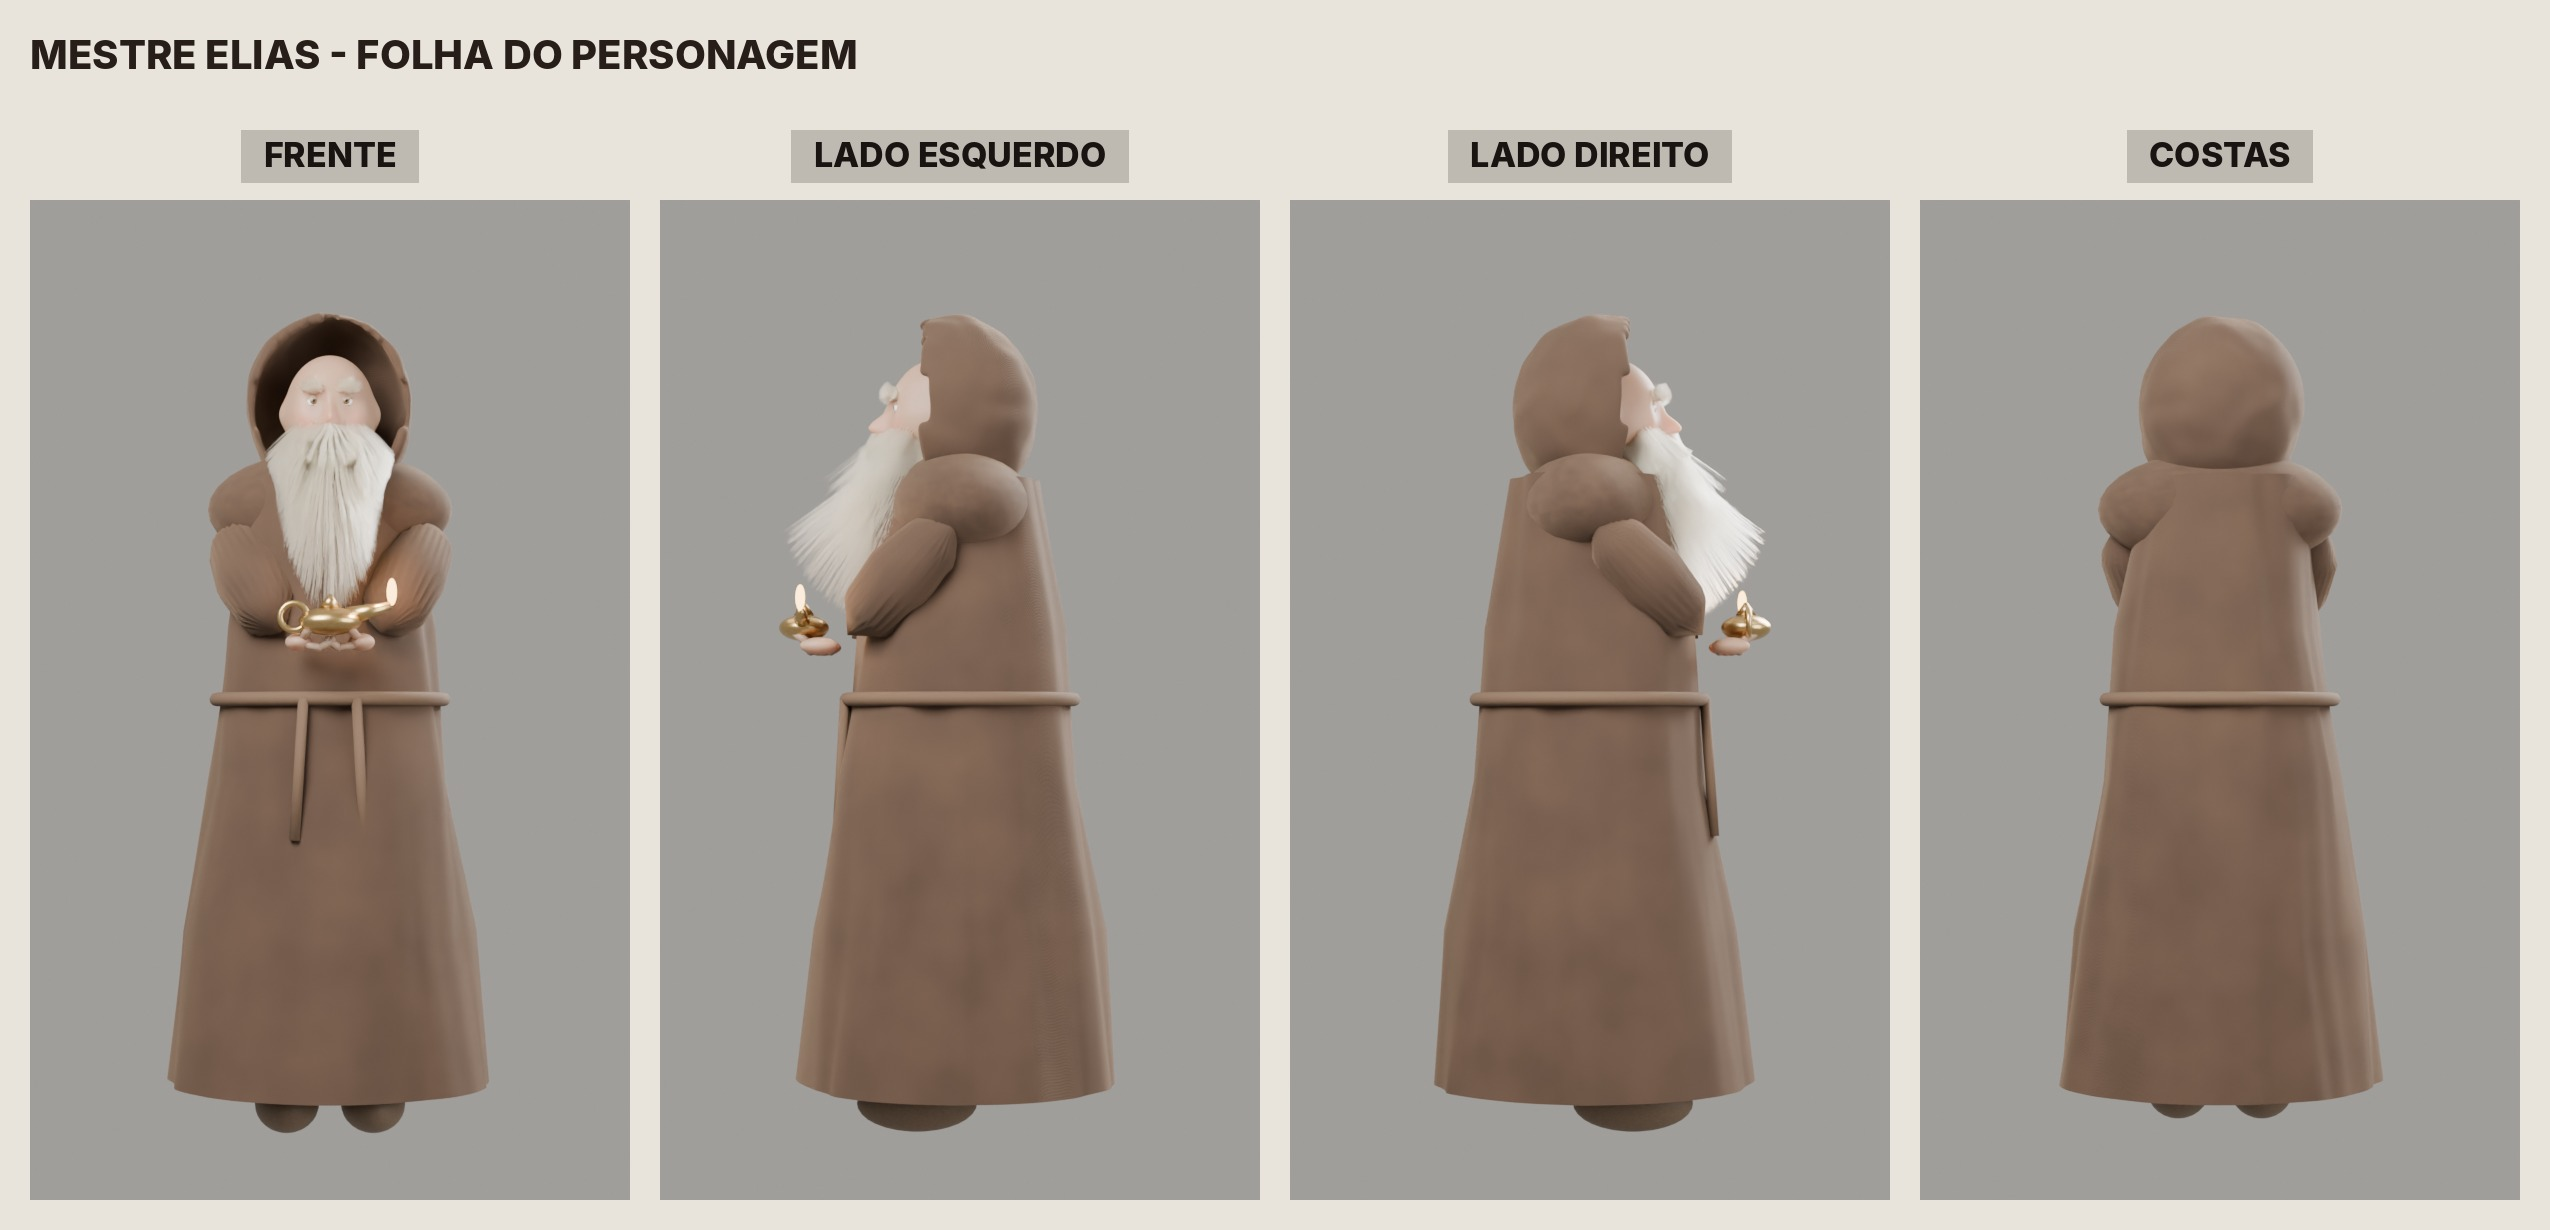
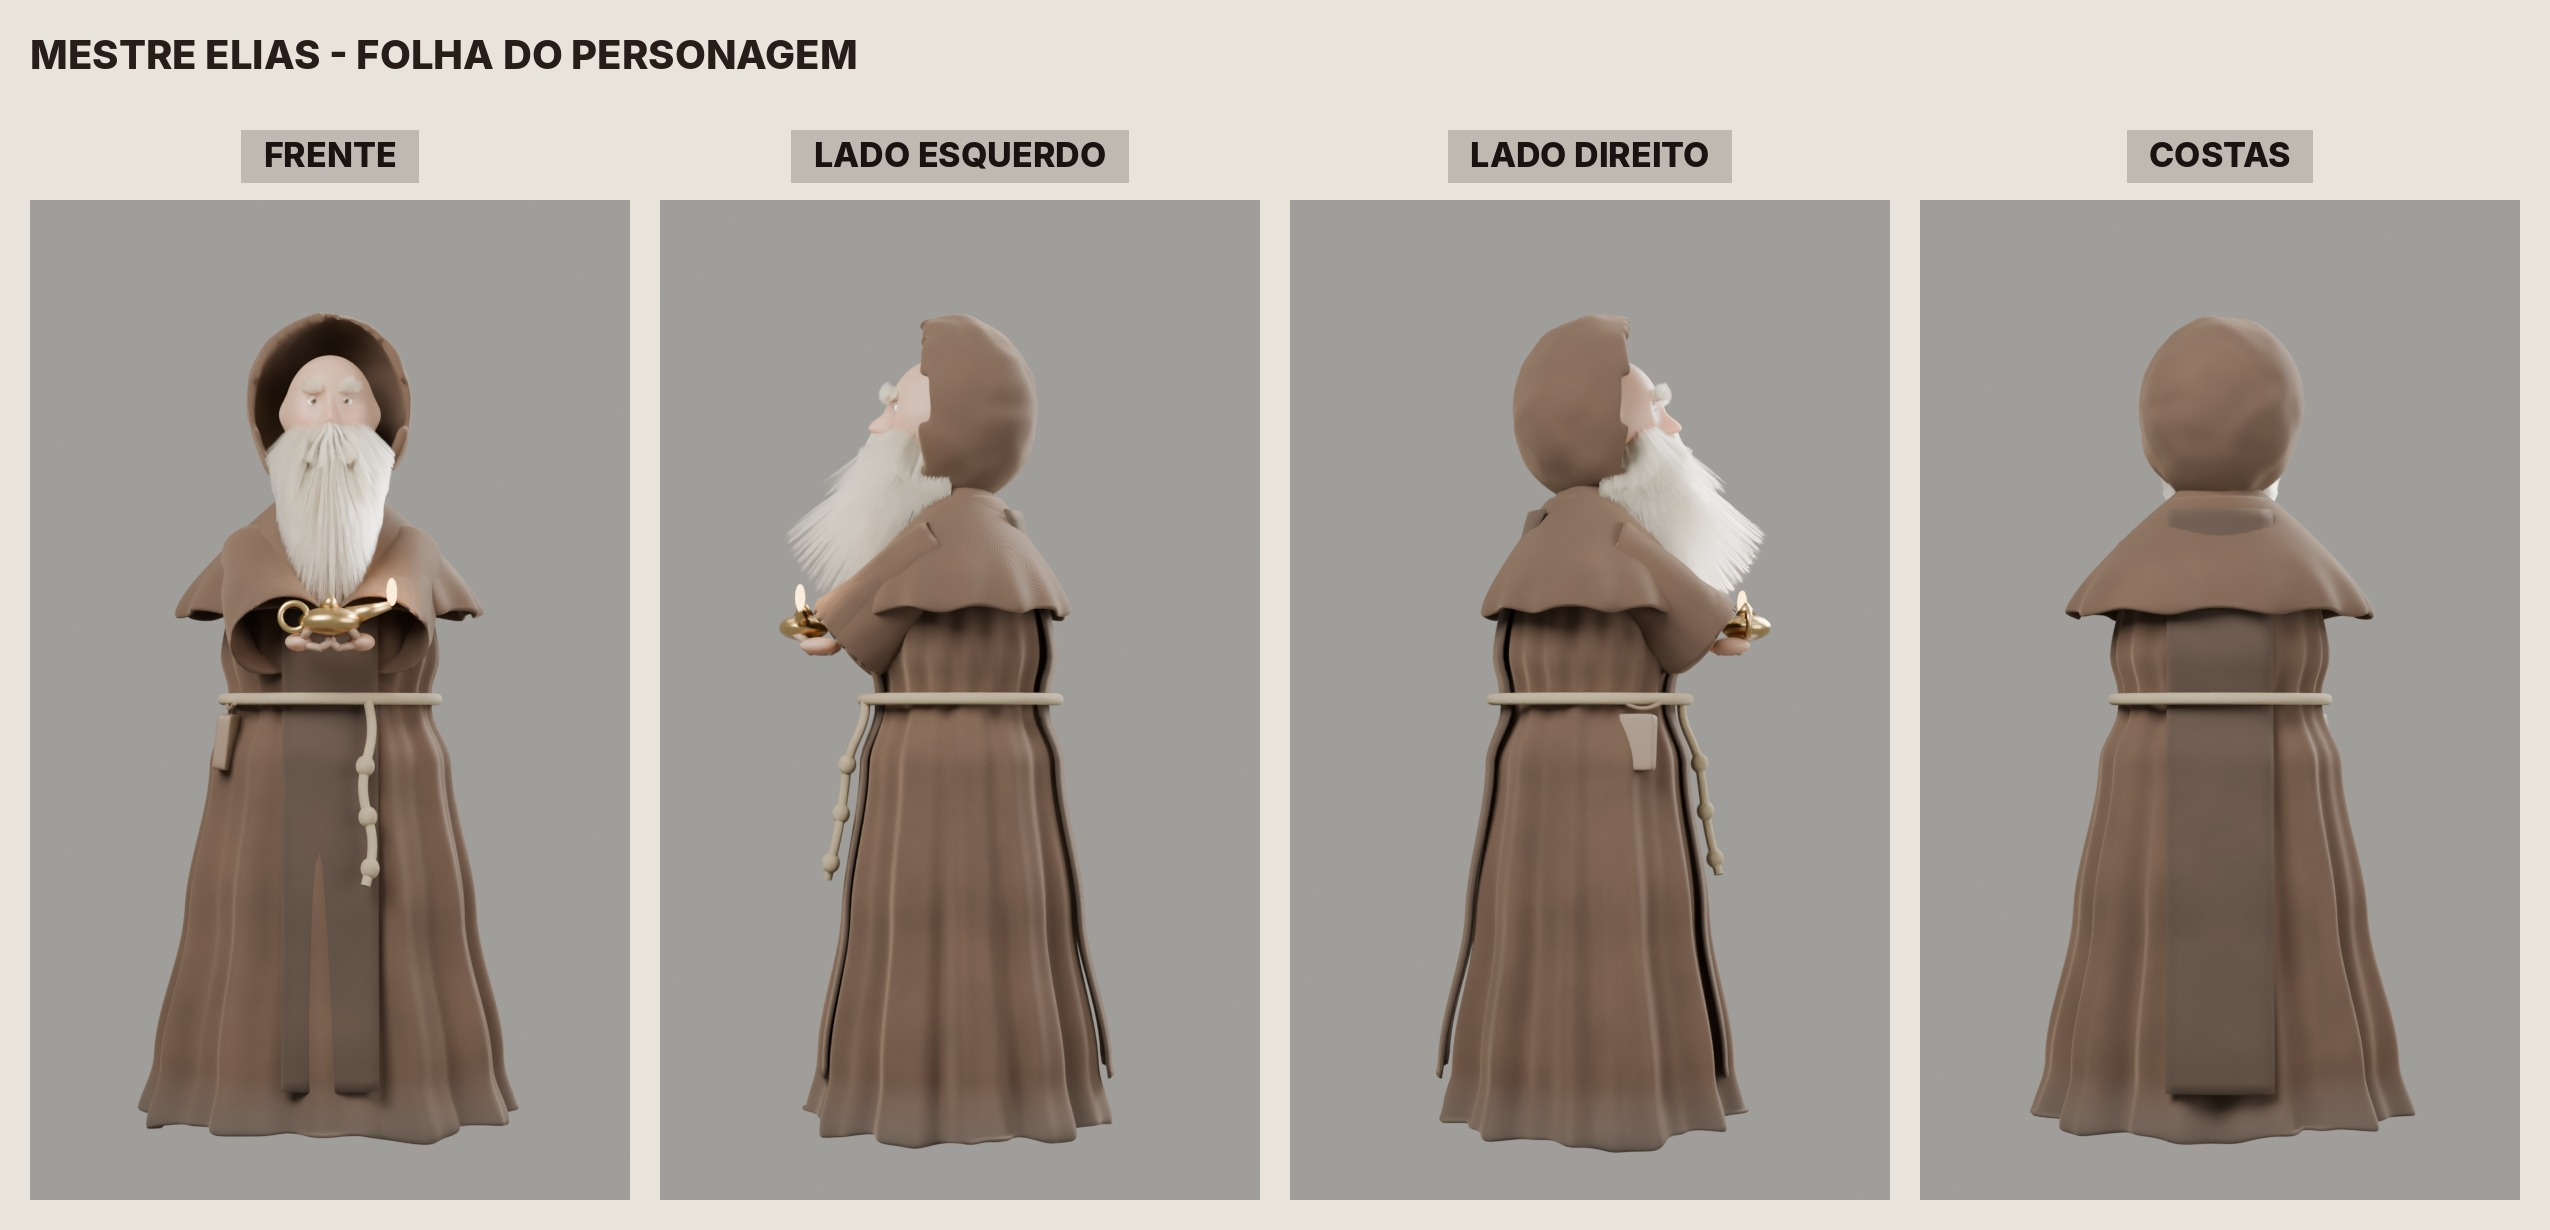
Elias V2: roupas novas (habito com dobras, escapulario, murca, mangas de sino, cordao com nos, bolsa)
Claude-Session: https://claude.ai/code/session_0146Xd1ZsDWpGpSHV77qDDph

diff --git a/animacao3d/personagem.py b/animacao3d/personagem.py
@@ -329,11 +329,11 @@ def cabeca_realista(colecao, m):
     return pecas
 
 
-def _la_material():
-    m = bpy.data.materials.get("la_tecida")
+def _la_material(nome="la_tecida", sujeira=False, cor=((0.04, 0.02, 0.011, 1), (0.085, 0.045, 0.025, 1))):
+    m = bpy.data.materials.get(nome)
     if m:
         return m
-    m = bpy.data.materials.new("la_tecida")
+    m = bpy.data.materials.new(nome)
     m.use_nodes = True
     nt = m.node_tree
     p = nt.nodes["Principled BSDF"]
@@ -345,10 +345,27 @@ def _la_material():
     var.inputs["Scale"].default_value = 6
     nt.links.new(tc.outputs["Object"], var.inputs["Vector"])
     rampa = nt.nodes.new("ShaderNodeValToRGB")
-    rampa.color_ramp.elements[0].color = (0.04, 0.02, 0.011, 1)
-    rampa.color_ramp.elements[1].color = (0.085, 0.045, 0.025, 1)
+    rampa.color_ramp.elements[0].color = cor[0]
+    rampa.color_ramp.elements[1].color = cor[1]
     nt.links.new(var.outputs["Fac"], rampa.inputs["Fac"])
-    nt.links.new(rampa.outputs["Color"], p.inputs["Base Color"])
+    if sujeira:
+        # Barra gasta: mais escura e empoeirada perto do chao.
+        sep = nt.nodes.new("ShaderNodeSeparateXYZ")
+        nt.links.new(tc.outputs["Object"], sep.inputs[0])
+        faixa = nt.nodes.new("ShaderNodeMapRange")
+        faixa.inputs["From Min"].default_value = 0.0
+        faixa.inputs["From Max"].default_value = 0.16
+        faixa.inputs["To Min"].default_value = 1.0
+        faixa.inputs["To Max"].default_value = 0.0
+        nt.links.new(sep.outputs["Z"], faixa.inputs["Value"])
+        mist = nt.nodes.new("ShaderNodeMix")
+        mist.data_type = "RGBA"
+        mist.inputs["B"].default_value = (0.06, 0.045, 0.035, 1)
+        nt.links.new(faixa.outputs["Result"], mist.inputs["Factor"])
+        nt.links.new(rampa.outputs["Color"], mist.inputs["A"])
+        nt.links.new(mist.outputs["Result"], p.inputs["Base Color"])
+    else:
+        nt.links.new(rampa.outputs["Color"], p.inputs["Base Color"])
     trama = nt.nodes.new("ShaderNodeTexWave")
     trama.wave_type = "BANDS"
     trama.bands_direction = "DIAGONAL"
@@ -393,32 +410,228 @@ def maos_realistas(colecao, s):
     return pecas
 
 
+# ---------------------------------------------------------------------------
+# Roupas V2: habito com forma e dobras de verdade, escapulario, murca, mangas de sino,
+# cordao franciscano com nos e bolsa de couro.
+# ---------------------------------------------------------------------------
+PROF = 0.8  # o corpo e mais estreito de frente para tras (elipse)
+
+
+def _raio_habito(z):
+    """Silhueta do habito: barra larga, cintura franzida no cordao, peito e ombros."""
+    pontos = [(0.0, 0.43), (0.15, 0.39), (0.5, 0.33), (0.85, 0.28), (0.98, 0.235), (1.02, 0.235), (1.1, 0.255),
+              (1.28, 0.23), (1.42, 0.17), (1.5, 0.11)]
+    for (z0, r0), (z1, r1) in zip(pontos, pontos[1:]):
+        if z <= z1:
+            t = (z - z0) / (z1 - z0)
+            t = t * t * (3 - 2 * t)
+            return r0 + (r1 - r0) * t
+    return pontos[-1][1]
+
+
+def _dobra_habito(a, z):
+    """Deslocamento radial das dobras: fundas e largas embaixo, miudas e franzidas acima do cordao."""
+    if z < 1.0:
+        k = 0.012 + 0.03 * _suave(0.95, 0.05, z)
+        return k * (0.65 * math.sin(11 * a + 0.7 * math.sin(2.3 * z)) + 0.35 * math.sin(23 * a + 1.3 + z))
+    k = 0.009 * _suave(1.35, 1.03, z)
+    return k * math.sin(19 * a + 0.4)
+
+
+def _torno(nome, zs, raio, dobra, mat, colecao, seg=128, prof=PROF, barra=None):
+    """Superficie de revolucao com dobras: grade (angulo x altura), aberta em cima e embaixo."""
+    bm = bmesh.new()
+    grade = []
+    for j, z in enumerate(zs):
+        anel = []
+        for i in range(seg):
+            a = 2 * math.pi * i / seg
+            r = raio(z) + dobra(a, z)
+            zz = z + (barra(a) if barra and j == 0 else 0)
+            anel.append(bm.verts.new((r * math.cos(a), r * math.sin(a) * prof, zz)))
+        grade.append(anel)
+    for j in range(len(zs) - 1):
+        for i in range(seg):
+            bm.faces.new((grade[j][i], grade[j][(i + 1) % seg], grade[j + 1][(i + 1) % seg], grade[j + 1][i]))
+    me = bpy.data.meshes.new(nome)
+    bm.to_mesh(me)
+    bm.free()
+    for p in me.polygons:
+        p.use_smooth = True
+    me.materials.append(mat)
+    o = bpy.data.objects.new(nome, me)
+    colecao.objects.link(o)
+    o.modifiers.new("espessura", "SOLIDIFY").thickness = 0.012
+    s = o.modifiers.new("sub", "SUBSURF")
+    s.levels, s.render_levels = 0, 1
+    return o
+
+
+def _faixa(nome, zs, largura, lado, mat, colecao, afasta=0.014):
+    """Escapulario: tira de pano colada na frente (lado=-1) ou nas costas (lado=1) do habito."""
+    bm = bmesh.new()
+    nx = 9
+    grade = []
+    for z in zs:
+        r = _raio_habito(z)
+        linha = []
+        for i in range(nx):
+            x = largura * (i / (nx - 1) - 0.5)
+            ry = r * PROF
+            y = lado * (ry * math.sqrt(max(1 - (x / r) ** 2, 0)) + afasta + max(_dobra_habito(-lado * math.pi / 2, z), 0))
+            linha.append(bm.verts.new((x, y, z)))
+        grade.append(linha)
+    for j in range(len(zs) - 1):
+        for i in range(nx - 1):
+            bm.faces.new((grade[j][i], grade[j][i + 1], grade[j + 1][i + 1], grade[j + 1][i]))
+    me = bpy.data.meshes.new(nome)
+    bm.to_mesh(me)
+    bm.free()
+    for p in me.polygons:
+        p.use_smooth = True
+    me.materials.append(mat)
+    o = bpy.data.objects.new(nome, me)
+    colecao.objects.link(o)
+    o.modifiers.new("espessura", "SOLIDIFY").thickness = 0.006
+    return o
+
+
+def _curva(nome, pontos, espessura, mat, colecao, fechada=False):
+    c = bpy.data.curves.new(nome, "CURVE")
+    c.dimensions = "3D"
+    c.bevel_depth = espessura
+    c.bevel_resolution = 3
+    c.use_fill_caps = True
+    sp = c.splines.new("NURBS")
+    sp.points.add(len(pontos) - 1)
+    for p, xyz in zip(sp.points, pontos):
+        p.co = (*xyz, 1)
+    sp.use_cyclic_u = fechada
+    sp.use_endpoint_u = not fechada
+    sp.order_u = 4
+    o = bpy.data.objects.new(nome, c)
+    o.data.materials.append(mat)
+    colecao.objects.link(o)
+    return o
+
+
+def _corda_material():
+    m = bpy.data.materials.get("corda_torcida")
+    if m:
+        return m
+    m = bpy.data.materials.new("corda_torcida")
+    m.use_nodes = True
+    nt = m.node_tree
+    p = nt.nodes["Principled BSDF"]
+    p.inputs["Base Color"].default_value = (0.42, 0.33, 0.2, 1)
+    p.inputs["Roughness"].default_value = 0.95
+    tc = nt.nodes.new("ShaderNodeTexCoord")
+    w = nt.nodes.new("ShaderNodeTexWave")
+    w.bands_direction = "DIAGONAL"
+    w.inputs["Scale"].default_value = 45
+    w.inputs["Distortion"].default_value = 0.5
+    nt.links.new(tc.outputs["UV"], w.inputs["Vector"])
+    b = nt.nodes.new("ShaderNodeBump")
+    b.inputs["Strength"].default_value = 0.8
+    nt.links.new(w.outputs["Fac"], b.inputs["Height"])
+    nt.links.new(b.outputs["Normal"], p.inputs["Normal"])
+    return m
+
+
+def roupas_realistas(colecao, m):
+    la = _la_material()
+    manto_m = _la_material("la_manto", sujeira=True)
+    escuro = _la_material("la_escapulario", cor=((0.025, 0.014, 0.009, 1), (0.05, 0.03, 0.018, 1)))
+    corda = _corda_material()
+    pecas = []
+    zs = [0.02 + 1.46 * (k / 70) ** 1.1 for k in range(71)]
+    pecas.append(_torno("manto", zs, _raio_habito, _dobra_habito, manto_m, colecao,
+                        barra=lambda a: 0.012 * math.sin(7 * a) + 0.01 * math.sin(3 * a + 1)))
+    zf = [0.12 + (1.44 - 0.12) * k / 50 for k in range(51)]
+    pecas.append(_faixa("escapulario_frente", zf, 0.22, -1, escuro, colecao))
+    pecas.append(_faixa("escapulario_costas", zf, 0.24, 1, escuro, colecao))
+    # Murca: capinha sobre os ombros, por cima das mangas.
+    zm = [1.2 + 0.32 * k / 24 for k in range(25)]
+    murca = _torno("murca", zm, lambda z: 0.36 - 0.9 * (z - 1.2) ** 1.4 * 1.6,
+                   lambda a, z: 0.012 * _suave(1.36, 1.2, z) * math.sin(14 * a + 0.5), la, colecao, seg=96, prof=0.72,
+                   barra=lambda a: 0.01 * math.sin(9 * a))
+    pecas.append(murca)
+    # Cordao: volta na cintura por cima do escapulario e ponta com tres nos.
+    anel = [((0.255) * math.cos(2 * math.pi * i / 24), (0.255 * PROF + 0.03) * math.sin(2 * math.pi * i / 24), 1.0)
+            for i in range(24)]
+    pecas.append(_curva("cordao", anel, 0.014, corda, colecao, fechada=True))
+    pts = []
+    for k in range(12):
+        z = 1.0 - 0.42 * k / 11
+        x = 0.085 + 0.012 * math.sin(k * 0.9)
+        r = _raio_habito(z)
+        y = -(r * PROF * math.sqrt(max(1 - (x / r) ** 2, 0)) + 0.045 + 0.015 * _suave(1.0, 0.5, z))
+        pts.append((x, y, z))
+    pecas.append(_curva("cordao_ponta", pts, 0.011, corda, colecao))
+    for z in (0.86, 0.74, 0.62):
+        i = min(range(len(pts)), key=lambda k: abs(pts[k][2] - z))
+        bpy.ops.mesh.primitive_uv_sphere_add(radius=1, location=pts[i])
+        no = _obj("no", corda, colecao)
+        no.scale = (0.021, 0.021, 0.024)
+        pecas.append(no)
+    # Bolsa de couro pendurada no cordao, do lado direito.
+    bpy.ops.mesh.primitive_cube_add(size=1, location=(-0.235, -0.1, 0.9))
+    bolsa = _obj("bolsa", m["couro"], colecao)
+    bolsa.scale = (0.035, 0.1, 0.13)
+    bolsa.rotation_euler = (0, 0.12, -0.35)
+    bolsa.modifiers.new("bisel", "BEVEL").width = 0.012
+    sub = bolsa.modifiers.new("sub", "SUBSURF")
+    sub.levels = sub.render_levels = 2
+    pecas.append(bolsa)
+    pecas.append(_curva("alca_bolsa", [(-0.22, -0.16, 0.99), (-0.235, -0.12, 0.965), (-0.24, -0.08, 0.99)], 0.005,
+                        m["couro"], colecao))
+    return pecas
+
+
+def manga_sino(colecao, s, mat):
+    """Manga larga em forma de sino, aberta no punho, com dobras e espessura."""
+    a, b = Vector((0.19 * s, -0.02, 1.36)), Vector((0.11 * s, -0.27, 1.13))
+    d = b - a
+    bpy.ops.mesh.primitive_cone_add(vertices=48, radius1=0.075, radius2=0.12, depth=d.length, location=(a + b) / 2,
+                                    end_fill_type="NOTHING")
+    o = _obj("manga", mat, colecao)
+    o.rotation_mode = "QUATERNION"
+    o.rotation_quaternion = d.to_track_quat("Z", "Y")
+    o.modifiers.new("espessura", "SOLIDIFY").thickness = 0.01
+    _dobras(o, 0.012, 14, 2)
+    return o
+
+
 def criar(colecao, mats, local=(0, 0, 0), realista=True):
     m = dict(mats)
     if realista:
         m["la"] = _la_material()
     raiz = _vazio("elias_raiz", (0, 0, 0), colecao)
 
-    # Manto: cone largo embaixo, estreito nos ombros, com dobras.
-    bpy.ops.mesh.primitive_cone_add(vertices=64, radius1=0.38, radius2=0.19, depth=1.42, location=(0, 0, 0.81),
-                                    end_fill_type="NOTHING")
-    manto = _obj("manto", m["la"], colecao)
-    _dobras(manto, 0.03, 9)
-    bpy.ops.mesh.primitive_uv_sphere_add(segments=32, ring_count=16, radius=1, location=(0, 0.0, 1.45))
-    ombros = _obj("ombros", m["la"], colecao)
-    ombros.scale = (0.29, 0.17, 0.14)
-    # Cinto de corda e pontas penduradas.
-    bpy.ops.mesh.primitive_torus_add(major_radius=0.27, minor_radius=0.016, location=(0, 0, 1.0))
-    cinto = _obj("cinto", m["corda"], colecao)
-    pontas = [_entre(f"corda{i}", (0.06 * s, -0.27, 1.0), (0.08 * s, -0.29, 0.62 + 0.06 * i), 0.012, 0.012,
-                     m["corda"], colecao) for i, s in enumerate((1, -1))]
+    if realista:
+        corpo = roupas_realistas(colecao, m)
+    else:
+        # Manto: cone largo embaixo, estreito nos ombros, com dobras.
+        bpy.ops.mesh.primitive_cone_add(vertices=64, radius1=0.38, radius2=0.19, depth=1.42, location=(0, 0, 0.81),
+                                        end_fill_type="NOTHING")
+        manto = _obj("manto", m["la"], colecao)
+        _dobras(manto, 0.03, 9)
+        bpy.ops.mesh.primitive_uv_sphere_add(segments=32, ring_count=16, radius=1, location=(0, 0.0, 1.45))
+        ombros = _obj("ombros", m["la"], colecao)
+        ombros.scale = (0.29, 0.17, 0.14)
+        # Cinto de corda e pontas penduradas.
+        bpy.ops.mesh.primitive_torus_add(major_radius=0.27, minor_radius=0.016, location=(0, 0, 1.0))
+        cinto = _obj("cinto", m["corda"], colecao)
+        pontas = [_entre(f"corda{i}", (0.06 * s, -0.27, 1.0), (0.08 * s, -0.29, 0.62 + 0.06 * i), 0.012, 0.012,
+                         m["corda"], colecao) for i, s in enumerate((1, -1))]
+        corpo = [manto, ombros, cinto, *pontas]
     botas = []
     for s in (1, -1):
         bpy.ops.mesh.primitive_uv_sphere_add(radius=1, location=(0.1 * s, -0.1, 0.06))
         b = _obj("bota", m["couro"], colecao)
         b.scale = (0.075, 0.14, 0.065)
         botas.append(b)
-    for o in (manto, ombros, cinto, *pontas, *botas):
+    for o in (*corpo, *botas):
         _pai(o, raiz)
 
     # Cabeca: rosto, olhos, nariz, bigode, barba longa e capuz aberto na frente.
@@ -479,9 +692,12 @@ def criar(colecao, mats, local=(0, 0, 0), realista=True):
     bracos = _vazio("elias_bracos", (0, 0, 1.42), colecao, raiz)
     pb = []
     for s in (1, -1):
-        manga = _entre("manga", (0.25 * s, 0.0, 1.42), (0.11 * s, -0.27, 1.14), 0.08, 0.1, m["la"], colecao)
-        _dobras(manga, 0.008, 15, 1)
-        pb.append(manga)
+        if realista:
+            pb.append(manga_sino(colecao, s, m["la"]))
+        else:
+            manga = _entre("manga", (0.25 * s, 0.0, 1.42), (0.11 * s, -0.27, 1.14), 0.08, 0.1, m["la"], colecao)
+            _dobras(manga, 0.008, 15, 1)
+            pb.append(manga)
         if realista:
             pb += maos_realistas(colecao, s)
             continue
